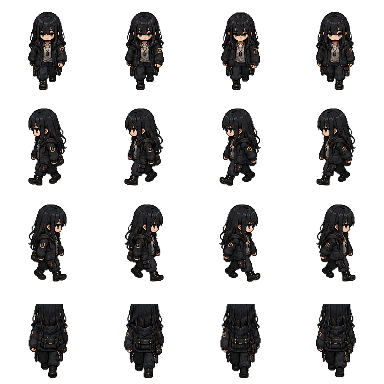
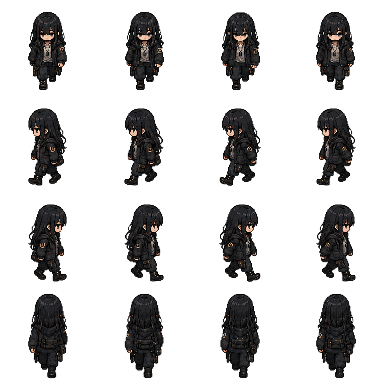
fix: preserve YUI back row with fixed source grid

diff --git a/tools/process_yui_sprite_sheet.py b/tools/process_yui_sprite_sheet.py
@@ -14,18 +14,31 @@ OUTPUT = ROOT / "godot" / "assets" / "art" / "characters" / "yui" / "yui_walk_4d
 GRID_COLUMNS = 4
 GRID_ROWS = 4
 FRAME_SIZE = 96
+FIXED_SOURCE_SIZE = 1256
+FIXED_SOURCE_CELL_SIZE = 314
 TARGET_CHARACTER_HEIGHT = 78
 FOOT_BASELINE = 90
 ALPHA_THRESHOLD = 12
 BBOX_ALPHA_THRESHOLD = 48
 CROP_PADDING = 4
-BACK_MIN_HEADROOM = 4
-BACK_ROW_SCALE = 0.96
 
 ROW_DOWN = 0
 ROW_LEFT = 1
 ROW_RIGHT = 2
 ROW_UP = 3
+
+# Fixed source cells for the back-facing row in docs/reference/yui-1.png.
+# docs/reference/yui-1.png is 1254x1254, so the script first builds a
+# 1256x1256 transparent fixed-grid source with 314x314 cells. These rects are
+# copied as whole cells into that grid, then the final back row is copied from
+# those cells. Do not replace this with bbox/trim/recenter logic: the back hair
+# silhouette must come from the original pixels unchanged.
+BACK_SOURCE_RECTS = (
+    (51, 884, 365, 1198),
+    (324, 884, 638, 1198),
+    (599, 884, 913, 1198),
+    (869, 884, 1183, 1198),
+)
 
 
 def normalize_alpha(image: Image.Image) -> Image.Image:
@@ -82,6 +95,23 @@ def split_source_sheet(image: Image.Image) -> list[Image.Image]:
     return frames
 
 
+def build_fixed_source_grid(source: Image.Image) -> Image.Image:
+    fixed_grid = Image.new(
+        "RGBA",
+        (FIXED_SOURCE_SIZE, FIXED_SOURCE_SIZE),
+        (0, 0, 0, 0),
+    )
+
+    for column, rect in enumerate(BACK_SOURCE_RECTS):
+        back_cell = source.crop(rect)
+        fixed_grid.alpha_composite(
+            back_cell,
+            (column * FIXED_SOURCE_CELL_SIZE, ROW_UP * FIXED_SOURCE_CELL_SIZE),
+        )
+
+    return fixed_grid
+
+
 def normalize_direction_sources(frames: list[Image.Image]) -> list[Image.Image]:
     normalized = frames.copy()
     for column in range(GRID_COLUMNS):
@@ -108,55 +138,19 @@ def alpha_composite_clipped(canvas: Image.Image, source: Image.Image, position: 
     )
 
 
-def fit_back_frame(frame: Image.Image) -> Image.Image:
-    # Back-facing frames keep the fixed-grid source cell intact so faint hair
-    # pixels from yui-1.png are not mistaken for removable background.
-    bbox = get_visible_bbox(frame, ALPHA_THRESHOLD)
-    if bbox is None:
-        return Image.new("RGBA", (FRAME_SIZE, FRAME_SIZE), (0, 0, 0, 0))
-
-    visible_height = bbox[3] - bbox[1]
-    baseline_limited_height = FOOT_BASELINE - BACK_MIN_HEADROOM
-    scale = min(
-        TARGET_CHARACTER_HEIGHT / float(visible_height),
-        baseline_limited_height / float(visible_height),
-    )
-    target_width = max(1, round(frame.width * scale))
-    target_height = max(1, round(frame.height * scale))
-    resized = frame.resize((target_width, target_height), Image.Resampling.NEAREST)
-
-    canvas = Image.new("RGBA", (FRAME_SIZE, FRAME_SIZE), (0, 0, 0, 0))
-    visible_center_x = ((bbox[0] + bbox[2]) * 0.5) * scale
-    visible_bottom_y = bbox[3] * scale
-    x = round(FRAME_SIZE * 0.5 - visible_center_x)
-    y = round(FOOT_BASELINE - visible_bottom_y)
-    alpha_composite_clipped(canvas, resized, (x, y))
-    return canvas
-
-
-def shrink_back_frame(frame: Image.Image) -> Image.Image:
-    # Scale the completed 96x96 back-facing frame as a whole. This avoids
-    # re-cropping the silhouette while adding runtime headroom.
-    bbox = get_visible_bbox(frame, ALPHA_THRESHOLD)
-    if bbox is None:
-        return frame
-
-    target_width = max(1, round(FRAME_SIZE * BACK_ROW_SCALE))
-    target_height = max(1, round(FRAME_SIZE * BACK_ROW_SCALE))
-    resized = frame.resize((target_width, target_height), Image.Resampling.NEAREST)
-
-    original_bottom = bbox[3] - 1
-    resized_bbox = get_visible_bbox(resized, ALPHA_THRESHOLD)
-    if resized_bbox is None:
-        return frame
-
-    resized_bottom = resized_bbox[3] - 1
-    x = round(FRAME_SIZE * 0.5 - target_width * 0.5)
-    y = original_bottom - resized_bottom
-
-    canvas = Image.new("RGBA", (FRAME_SIZE, FRAME_SIZE), (0, 0, 0, 0))
-    alpha_composite_clipped(canvas, resized, (x, y))
-    return canvas
+def copy_fixed_back_row_frames(fixed_grid: Image.Image) -> list[Image.Image]:
+    back_frames: list[Image.Image] = []
+    row_top = ROW_UP * FIXED_SOURCE_CELL_SIZE
+    for column in range(GRID_COLUMNS):
+        left = column * FIXED_SOURCE_CELL_SIZE
+        source_cell = fixed_grid.crop((
+            left,
+            row_top,
+            left + FIXED_SOURCE_CELL_SIZE,
+            row_top + FIXED_SOURCE_CELL_SIZE,
+        ))
+        back_frames.append(source_cell.resize((FRAME_SIZE, FRAME_SIZE), Image.Resampling.NEAREST))
+    return back_frames
 
 
 def fit_frames(frames: list[Image.Image]) -> list[Image.Image]:
@@ -165,7 +159,7 @@ def fit_frames(frames: list[Image.Image]) -> list[Image.Image]:
 
     for index, frame in enumerate(frames):
         if index // GRID_COLUMNS == ROW_UP:
-            fitted_frames.append(shrink_back_frame(fit_back_frame(frame)))
+            fitted_frames.append(Image.new("RGBA", (FRAME_SIZE, FRAME_SIZE), (0, 0, 0, 0)))
             continue
 
         bbox = bboxes[index]
@@ -194,11 +188,12 @@ def fit_frames(frames: list[Image.Image]) -> list[Image.Image]:
 
 def main() -> None:
     source = Image.open(REFERENCE_SOURCE).convert("RGBA")
+    fixed_source_grid = build_fixed_source_grid(source)
     frames = normalize_direction_sources(split_source_sheet(normalize_alpha(source)))
-    source_frames = split_source_sheet(source)
-    for column in range(GRID_COLUMNS):
-        frames[ROW_UP * GRID_COLUMNS + column] = source_frames[ROW_UP * GRID_COLUMNS + column]
     fitted_frames = fit_frames(frames)
+    back_frames = copy_fixed_back_row_frames(fixed_source_grid)
+    for column, frame in enumerate(back_frames):
+        fitted_frames[ROW_UP * GRID_COLUMNS + column] = frame
     output = Image.new("RGBA", (FRAME_SIZE * GRID_COLUMNS, FRAME_SIZE * GRID_ROWS), (0, 0, 0, 0))
 
     for index, frame in enumerate(fitted_frames):

diff --git a/docs/PROJECT_STATUS.md b/docs/PROJECT_STATUS.md
@@ -5,9 +5,9 @@
 - Project: `CONCENT / 전력 부족의 시대`
 - Main target: Godot project under `godot/`
 - Web prototype: React/Vite/Phaser prototype is reference only
-- Current phase: Yui back-facing frame scale adjustment
+- Current phase: Yui fixed-cell back-row preservation
 - Current branch: `main`
-- Latest commit at task start: `8a6fe58 fix: scale back-facing YUI frames for headroom`
+- Latest commit at task start: `14821a7 fix: tune back-facing YUI frame scale`
 
 ## Latest Completed Work
 
@@ -94,10 +94,18 @@
   - Kept the back-row foot baseline at visible bottom `89`
   - Confirmed front, left, and right rows are pixel-identical to the previous committed sheet
   - Updated up-direction idle and two walk validation screenshots under `docs/validation/`
+- Replaced the scale-only up/back-facing Yui treatment with fixed source-cell back-row copying:
+  - Kept the active source as `docs/reference/yui-1.png`
+  - Removed the back row from bbox, trim, alpha-crop, visible-top/bottom, recenter, and scale-normalization processing
+  - Built a transparent `1256x1256` working grid with `314x314` fixed back-row cells before generating the final sheet
+  - Copied the back-facing row from those fixed source cells into the generated `96x96` output frames with nearest cell resizing only
+  - Confirmed the final generated back row is pixel-identical to the transparent `1256x1256` fixed-grid cell copy result
+  - Confirmed front/down, left, and right rows are unchanged from the previous committed sheet
+  - Saved fixed-cell, source-vs-final, full runtime, and cropped runtime validation screenshots under `docs/validation/`
 
 ## Current Goal
 
-- Keep Yui's active player sprite readable in the up/back direction without changing map, UI, object placement, interaction logic, or other direction frames
+- Keep Yui's active player sprite readable in the up/back direction by preserving the source back-row silhouette without changing map, UI, object placement, interaction logic, or other direction frames
 - Keep Godot source assets reproducible by tracking source-side `.import` and necessary `.uid` metadata
 - Continue focusing active Godot work on DAY 1 MVP readability, outlet/power decisions, and reference-aligned apartment presentation
 
@@ -114,12 +122,19 @@
 
 - `godot/assets/art/characters/yui/yui_walk_4dir_rgba.png`
 - `tools/process_yui_sprite_sheet.py`
-- `docs/validation/yui_direction_front.png`
-- `docs/validation/yui_direction_back.png`
-- `docs/validation/yui_direction_left.png`
-- `docs/validation/yui_direction_right.png`
-- `docs/validation/yui_up_idle_headroom.png`
-- `docs/validation/yui_up_walk_headroom.png`
+- `docs/validation/yui_back_row_enlarged.png`
+- `docs/validation/yui_back_source_vs_final_compare.png`
+- `docs/validation/yui_fixed_1256_back_row_source.png`
+- `docs/validation/yui_runtime_back_idle.png`
+- `docs/validation/yui_runtime_back_walk_01.png`
+- `docs/validation/yui_runtime_back_walk_02.png`
+- `docs/validation/yui_runtime_front.png`
+- `docs/validation/yui_runtime_right.png`
+- `docs/validation/yui_runtime_back_idle_crop.png`
+- `docs/validation/yui_runtime_back_walk_01_crop.png`
+- `docs/validation/yui_runtime_back_walk_02_crop.png`
+- `docs/validation/yui_runtime_front_crop.png`
+- `docs/validation/yui_runtime_right_crop.png`
 - `docs/PROJECT_STATUS.md`
 - `docs/ASSET_APPLICATION_NOTES.md`
 - `docs/YUI_ANIMATION_NOTES.md`
@@ -178,6 +193,39 @@
   - x center remains near `48`
 - `Godot_v4.5.1-stable_win64_console.exe --headless --path . --import --quit`: completed successfully after the back-row scale pass
 - `Godot_v4.5.1-stable_win64_console.exe --path . --script %TEMP%/capture_yui_up_three.gd --resolution 1280x720`: completed successfully and updated one up-direction idle screenshot plus two up-direction walk screenshots
+- `git status --short --branch`: confirmed current branch is `main` at this task start
+- `git rev-parse --short HEAD`: recorded task-start commit `14821a7`
+- `git fetch origin`: updated remote refs before this task
+- `git log --oneline HEAD..origin/main`: confirmed no new remote commits before editing
+- Opened and inspected `docs/reference/yui-1.png` before editing; the source is `1254x1254`, RGBA, while the generated Godot sheet is `384x384` with `96x96` frames
+- `tools/process_yui_sprite_sheet.py`: regenerated `godot/assets/art/characters/yui/yui_walk_4dir_rgba.png` from `docs/reference/yui-1.png` with a back-row-only transparent `1256x1256` / `314x314` fixed source-cell copy path
+- Static pixel validation:
+  - fixed grid size: `1256x1256`
+  - fixed cell size: `314`
+  - final back row exact transparent-1256-grid cell copy result: `True`
+  - front/down row unchanged from `HEAD`: `True`
+  - left row unchanged from `HEAD`: `True`
+  - right row unchanged from `HEAD`: `True`
+  - back frames have visible headroom `6px` and visible bottom `89-90`
+- Source-vs-final validation images saved at:
+  - `docs/validation/yui_fixed_1256_back_row_source.png`
+  - `docs/validation/yui_back_row_enlarged.png`
+  - `docs/validation/yui_back_source_vs_final_compare.png`
+- `python -m py_compile tools/process_yui_sprite_sheet.py`: completed successfully
+- `Godot_v4.5.1-stable_win64_console.exe --headless --path . --import --quit`: completed successfully, with sandbox-only AppData editor/cache directory warnings during the non-escalated import run
+- `Godot_v4.5.1-stable_win64_console.exe --path . --script %TEMP%/capture_yui_fixed_back.gd --resolution 1280x720`: completed successfully with escalation and saved runtime screenshots
+- Runtime screenshots saved at:
+  - `docs/validation/yui_runtime_back_idle.png`
+  - `docs/validation/yui_runtime_back_walk_01.png`
+  - `docs/validation/yui_runtime_back_walk_02.png`
+  - `docs/validation/yui_runtime_front.png`
+  - `docs/validation/yui_runtime_right.png`
+- Cropped runtime review images saved at:
+  - `docs/validation/yui_runtime_back_idle_crop.png`
+  - `docs/validation/yui_runtime_back_walk_01_crop.png`
+  - `docs/validation/yui_runtime_back_walk_02_crop.png`
+  - `docs/validation/yui_runtime_front_crop.png`
+  - `docs/validation/yui_runtime_right_crop.png`
 - Read `AGENTS.md` and the existing project tracking docs requested by the workflow update
 - Opened and inspected `docs/reference/yui-1.png` before editing
 - `docs/reference/yui-1.png`: `1254x1254`, RGBA, 4x4 frame sheet
@@ -199,7 +247,7 @@
 - The first DAY 1 power loop is implemented, but it still needs in-editor Godot playtesting.
 - Outlet connection now gates object use, but drag/connect/disconnect behavior still needs manual playtesting in Godot.
 - The direct reference map now supplies the visible apartment background; invisible interaction and collision overlays still need manual alignment review.
-- Yui now uses the processed `yui-1.png` source sheet with normalized frame size, foot baseline, side-view scale, fixed-grid preserved up/back source cells, and a back-row-only `96%` scale adjustment for headroom. Automated screenshots confirm the up idle and two up walk frames render without the head touching the frame edge, but manual movement input should still be checked in-editor.
+- Yui now uses the processed `yui-1.png` source sheet with normalized non-back rows and a back-row-only transparent `1256x1256` / `314x314` fixed source-cell copy path. The previous auto-trim / bbox crop / alpha-threshold crop style back-row processing has been removed from the active up/back output path, and runtime screenshots confirm the up idle and two up walk frames render with the rounded rear-head silhouette intact. Manual movement input should still be checked in-editor.
 - The actual reference map is drawn directly as the apartment background; interaction/collision overlays need manual alignment review against the art.
 - UI panel PNGs are used as low-alpha decorative backplates because text readability remains the priority.
 - Direct map background placement, Yui display, interaction hotspots, collision blockers, and prompt positions need screenshot-based review in the Godot editor.
@@ -214,10 +262,10 @@
 
 ## Next Recommended Task
 
-1. Manual movement check for the `yui-1` sprite
+1. Manual movement check for the fixed-cell `yui-1` back row
 
 Reason:
-The runtime screenshot confirms the main scene starts and Yui displays at the new size, but automated movie capture did not press movement keys.
+Automated runtime screenshots force specific animation frames and confirm the back silhouette is no longer clipped, but they do not press movement keys through the live input loop.
 
 Start with:
 
@@ -229,7 +277,8 @@ Start with:
 Completion criteria:
 
 - Up, down, left, and right walk animations still play in the correct directions
-- The sprite does not visibly jump or clip during movement
+- The up/back walk cycle keeps the rounded head top visible throughout movement
+- The sprite does not visibly jump during movement
 - Interaction prompts still trigger from the expected player position
 
 2. Adjust Yui scale/pivot only if the runtime screenshot shows issues

diff --git a/docs/ASSET_APPLICATION_NOTES.md b/docs/ASSET_APPLICATION_NOTES.md
@@ -28,6 +28,10 @@ This pass updates only the back-facing row of the generated active Yui walk shee
 
 This pass updates only the completed back-facing `96x96` frames by scaling them to `96%` inside the same canvas. It keeps the foot baseline fixed, adds more top headroom, and does not change the map background, object placement, UI panels, interaction logic, power logic, day/result systems, runtime display scale, or the front/left/right frame pixels.
 
+## YUI Fixed Source Back Row Copy Pass
+
+This pass replaces the previous scale-only back-facing treatment with a transparent `1256x1256` fixed-grid source and `314x314` back-cell copy path. It keeps the map background, object placement, UI panels, interaction logic, power logic, day/result systems, runtime display scale, and the front/down, left, and right rows unchanged.
+
 ## Applied PNGs
 
 - `godot/assets/art/maps/apartment/apartment_map_reference.png`
@@ -112,8 +116,10 @@ Some incoming P0 PNG files had accidental double-dot filenames. They were rename
 - `yui_walk_4dir_rgba.png` is generated from `yui_1_source_sheet.png` with transparent background, 4 rows, 4 columns, and `96x96` frames.
 - The active generated sheet now fits all 16 frames to a shared visible height of `78px`, a shared foot baseline at `y = 90`, and a centered x-axis near `x = 48`.
 - The right-facing row is generated by mirroring the left-facing row because the right-facing source row has inconsistent crop extent and made Yui appear smaller in-game.
-- The back-facing row is now fitted from the original fixed-grid fourth-row cells without alpha-normalizing or bbox-cropping those source cells, so faint hair pixels are preserved while the existing foot baseline remains unchanged.
-- The completed back-facing frames are then scaled to `96%` and re-anchored to the same foot baseline, moving the visible top from `12` to `16` while keeping the visible bottom at `89`.
+- Previous back-facing artifacts were caused by auto-trim / bbox crop / alpha-threshold crop style processing that let the rear frames' top silhouette be damaged before runtime.
+- The back-facing row is now copied from a transparent `1256x1256` fixed-grid source that uses `314x314` cells; the active back row does not use bbox calculation, trim, alpha crop, visible top/bottom calculation, recentering, or back-row scale normalization.
+- `docs/reference/yui-1.png` is `1254x1254`, so the script builds the transparent `1256x1256` working grid first, copies the original back-facing pixels into the fourth-row `314x314` cells, then resizes each whole cell into the final `96x96` frame with nearest filtering. The character silhouette inside the cell is not cropped or redrawn.
+- The generated back row has visible top `6`, visible bottom `89-90`, and is pixel-identical to the transparent `1256x1256` fixed-grid cell copy result saved in validation images.
 - The older `docs/reference/YUI.png` / `yui_source_sheet.png` automatic checkerboard cutout is no longer used for the active player display.
 - P0 object images are large source PNGs, so current implementation scales them inside the existing interactable draw rects.
 - Yui player art now uses `yui_walk_4dir_rgba.png` through `AnimatedSprite2D` / `AtlasTexture` frames instead of generated placeholder drawing.
@@ -138,6 +144,15 @@ Some incoming P0 PNG files had accidental double-dot filenames. They were rename
   - `docs/validation/yui_up_walk_headroom.png`
   - `docs/validation/yui_up_walk_headroom_01.png`
   - `docs/validation/yui_up_walk_headroom_02.png`
+- Fixed source-cell back-row validation images were captured at:
+  - `docs/validation/yui_fixed_1256_back_row_source.png`
+  - `docs/validation/yui_back_row_enlarged.png`
+  - `docs/validation/yui_back_source_vs_final_compare.png`
+  - `docs/validation/yui_runtime_back_idle.png`
+  - `docs/validation/yui_runtime_back_walk_01.png`
+  - `docs/validation/yui_runtime_back_walk_02.png`
+  - `docs/validation/yui_runtime_front.png`
+  - `docs/validation/yui_runtime_right.png`
 - Manual directional movement should still be checked in-editor because the screenshot capture forces direction animations but does not press movement keys.
 - Interaction hotspots should be checked against the visible objects in the map background.
 - The result panel does not yet use a dedicated final diary/log skin.
@@ -150,4 +165,4 @@ Some incoming P0 PNG files had accidental double-dot filenames. They were rename
   - Input: `docs/reference/yui-1.png`
   - Source copy: `godot/assets/art/characters/yui/yui_1_source_sheet.png`
   - Output: `godot/assets/art/characters/yui/yui_walk_4dir_rgba.png`
-  - Purpose: normalizes the non-back rows of the `yui-1` 4x4 RGBA sheet into matching `96x96` cells, keeps all frames on a shared foot baseline, mirrors the left row for the right-facing row to avoid the bad source crop, fits the back-facing row from intact fixed-grid source cells without redrawing or alpha cleanup, and scales only the completed back-facing frames to `96%` for runtime headroom.
+  - Purpose: normalizes the non-back rows of the `yui-1` 4x4 RGBA sheet into matching `96x96` cells, keeps non-back frames on a shared foot baseline, mirrors the left row for the right-facing row to avoid the bad source crop, and copies the back-facing row from transparent `1256x1256` / `314x314` fixed source cells without bbox, trim, alpha crop, visible top/bottom recentering, or scale-normalization logic.

diff --git a/docs/YUI_ANIMATION_NOTES.md b/docs/YUI_ANIMATION_NOTES.md
@@ -32,6 +32,10 @@ This pass preserves the original up/back-facing row silhouette from `docs/refere
 
 This pass scales only the completed up/back-facing `96x96` frames to `96%` inside the same frame canvas. It preserves movement, collision, proximity interaction, power logic, map layout, UI panels, multitap logic, runtime display scale, foot baseline, and the front/left/right frame pixels.
 
+## YUI Transparent Fixed Back Row Pass
+
+This pass replaces the previous up/back-facing scale adjustment with a transparent `1256x1256` fixed-grid source and `314x314` back-cell copy path. It preserves movement, collision, proximity interaction, power logic, map layout, UI panels, multitap logic, runtime display scale, and the front/down, left, and right frame pixels.
+
 ## Applied Idle PNGs
 
 - `godot/assets/art/characters/yui/idle/yui_idle_down.png`
@@ -93,6 +97,8 @@ This pass scales only the completed up/back-facing `96x96` frames to `96%` insid
 - Frame size: `96x96`.
 - Source character fit height inside each frame: `78px`.
 - Shared foot baseline inside each frame: `y = 90`.
+- Back-facing source handling: transparent `1256x1256` working grid with `314x314` fixed cells copied into the generated fourth row.
+- Back-facing runtime frame inspection: visible top `6`, visible bottom `89-90`, and no flat top clipping.
 - `Visual` scale: `Vector2(1.45, 1.45)`.
 - `Visual` position: `Vector2(0, -61)`.
 - `Visual` texture filter: nearest.
@@ -120,8 +126,19 @@ This pass scales only the completed up/back-facing `96x96` frames to `96%` insid
   - `docs/validation/yui_up_walk_headroom.png`
   - `docs/validation/yui_up_walk_headroom_01.png`
   - `docs/validation/yui_up_walk_headroom_02.png`
-- Automated frame inspection confirms the back-facing row now uses visible top `16`, bottom baseline `89`, height `74`, and center x near `48`.
-- Automated pixel comparison confirms front, left, and right rows are unchanged from the previous committed sheet; only the up/back-facing row changed.
+- Transparent fixed-grid back-row validation images saved at:
+  - `docs/validation/yui_fixed_1256_back_row_source.png`
+  - `docs/validation/yui_back_row_enlarged.png`
+  - `docs/validation/yui_back_source_vs_final_compare.png`
+  - `docs/validation/yui_runtime_back_idle.png`
+  - `docs/validation/yui_runtime_back_walk_01.png`
+  - `docs/validation/yui_runtime_back_walk_02.png`
+  - `docs/validation/yui_runtime_front.png`
+  - `docs/validation/yui_runtime_right.png`
+- Previous problem cause: auto-trim / bbox crop / alpha-threshold crop style processing damaged the rear frames' top silhouette before runtime.
+- Current fix: fixed-grid slice through a transparent `1256x1256` working source, `314x314` back-cell copy, no auto-trim, no bbox crop, no alpha crop, no visible top/bottom recentering, and no back-row scale normalization.
+- Automated frame inspection confirms the back-facing row now uses visible top `6`, visible bottom `89-90`, and the rounded rear-head silhouette remains intact.
+- Automated pixel comparison confirms front/down, left, and right rows are unchanged from the previous committed sheet; only the up/back-facing row changed.
 - Manual movement input should still be checked in-editor for all four directions because the automated screenshots force idle direction animations.
 - No 8-direction animation exists; diagonal movement intentionally resolves to the stronger cardinal axis.
 
@@ -129,11 +146,11 @@ This pass scales only the completed up/back-facing `96x96` frames to `96%` insid
 
 - `tools/process_yui_sprite_sheet.py`
 - Copies `docs/reference/yui-1.png` to `godot/assets/art/characters/yui/yui_1_source_sheet.png`.
-- Removes very low-alpha source noise from `yui-1`.
-- Normalizes all 16 frames to `96x96`.
-- Aligns every frame to the same centered x position and foot baseline.
+- Removes very low-alpha source noise from `yui-1` only for the non-back rows.
+- Normalizes the non-back rows to `96x96`.
+- Aligns non-back frames to the same centered x position and foot baseline.
 - Preserves crop padding around hair, lower body, and shoes so the back-facing head and feet do not clip.
 - Mirrors the left-facing source row for the right-facing row because the source right row has inconsistent crop extent and made that direction appear smaller.
-- Fits the back-facing row from intact fixed-grid source cells and preserves the original alpha channel instead of redrawing the head top or removing faint hair pixels.
-- Scales only the completed back-facing frames to `96%` and re-anchors them to the previous foot baseline.
+- Builds a transparent `1256x1256` working grid and copies the back-facing source pixels into `314x314` fourth-row cells.
+- Copies the back-facing row from those fixed cells into the generated sheet without bbox calculation, trim, alpha crop, visible top/bottom calculation, recentering, or scale normalization.
 - Preserves the original source character art instead of redrawing or replacing Yui.
